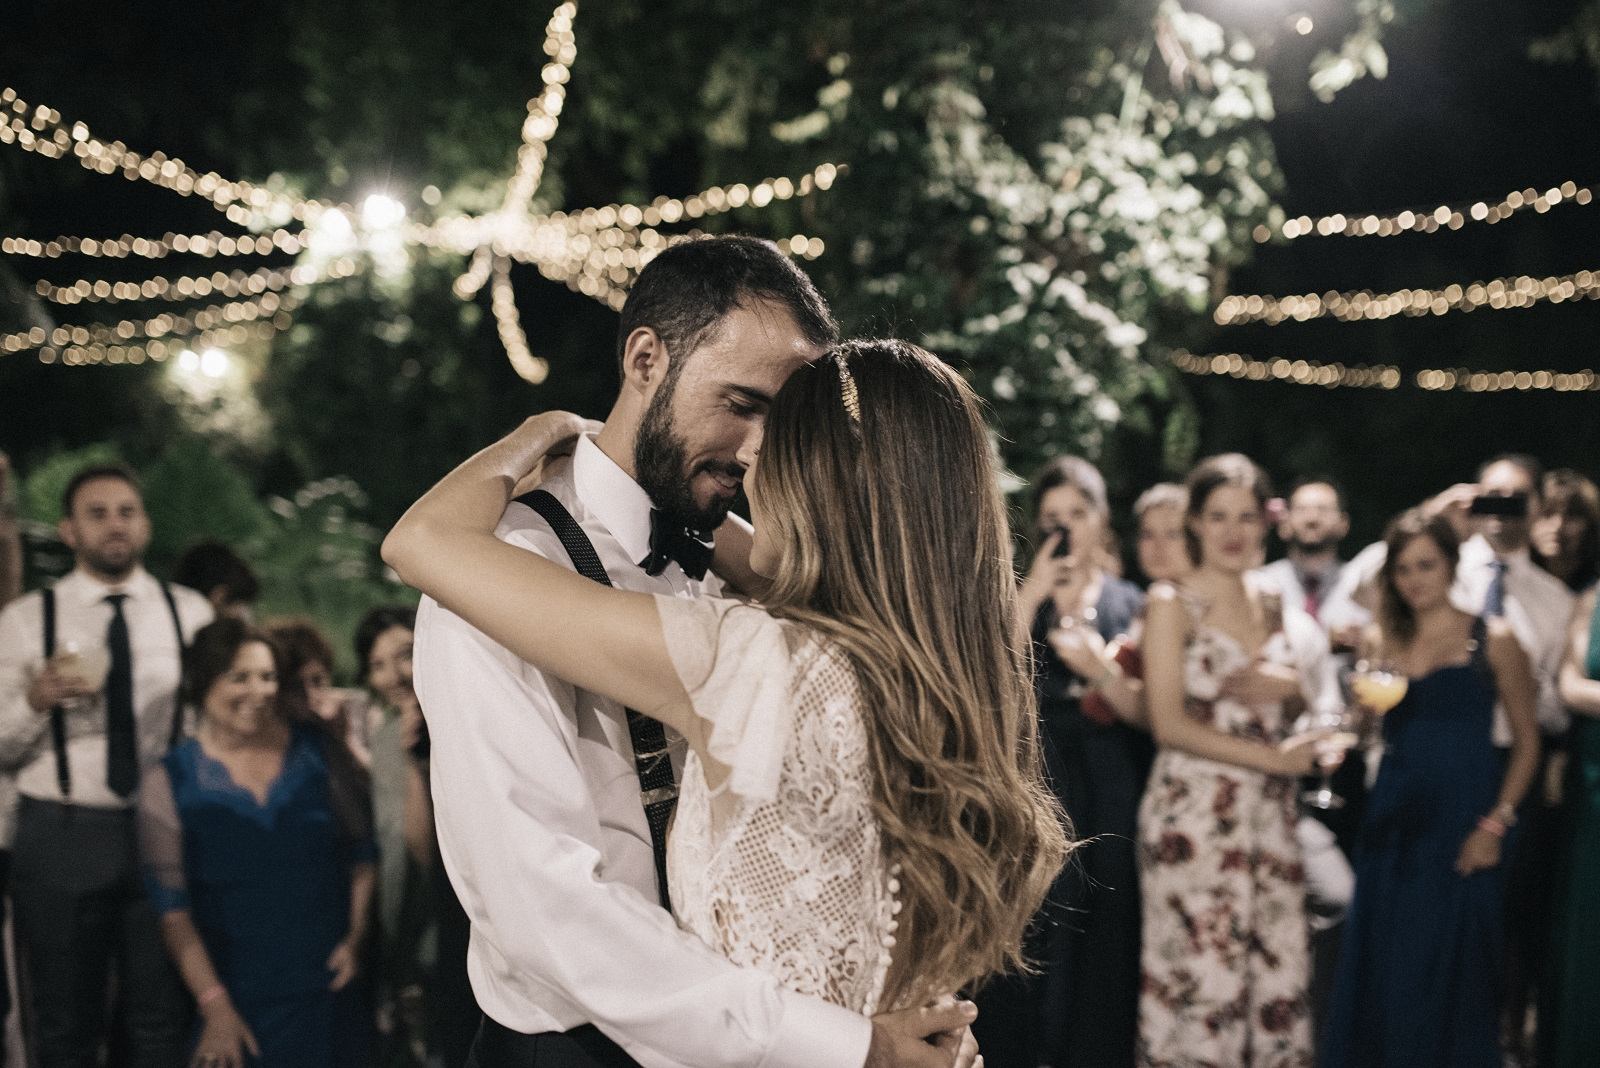
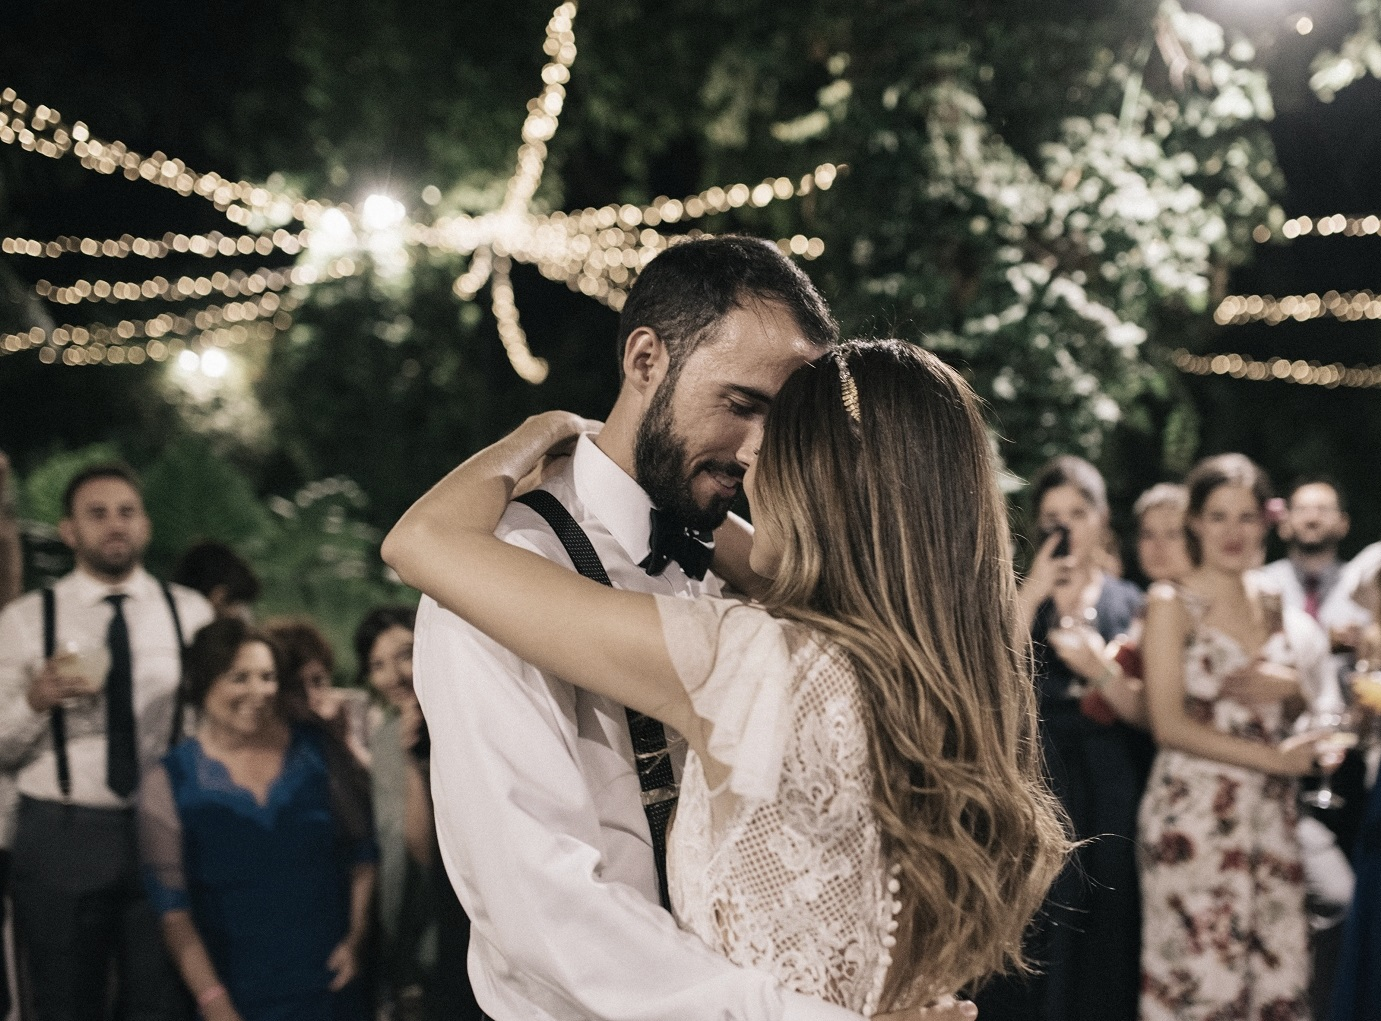
Cambio Pagina de Inicio

diff --git a/FrontEnd/src/components/paginaRegisLog/paginaRegisLog.css b/FrontEnd/src/components/paginaRegisLog/paginaRegisLog.css
@@ -7,10 +7,11 @@
   flex-wrap: nowrap;
   justify-content: flex-start;
   align-items: center;
-  background-color: #92b6d5 ;
+  background-color: #92b6d5cb ;
   margin-top: -50px;
   margin-bottom:-20px;
   border-radius: 20px;
+  opacity: 1;
   /* background-image: url('../../assets/img/fondo.png') */
 }
 
@@ -79,49 +80,7 @@
  
 }
 
-body {
-  /* display: flex;
-  width: 100vw;
-  height: 100vh;
-  align-items: center;
-  justify-content: center;
-  /* flex-direction: column;
-  flex-wrap: nowrap;
-  justify-content: center;
-  align-items: center;*/ 
-  /* background-color: #92b6d5;  */
-}
 
 h3{
   color:white;
 }
-/* 
-.animate	{ 
-	width: 100%; 
-	height: 400px; 
-	background-image: url('../../assets/img/nubes.png');
-	background-position: 100px 0px;
-	background-repeat: repeat-x;
-	animation: animatedBackground 40s linear infinite;
-} 
-
-
-
- @keyframes animatedBackground {
-  from { background-position: 100% 0; }
-  to { background-position: 0% 0; }
-} */
-
-/* 
-.animate{ 
-  width: 100%; 
-  height: 100px;
-  background-image: url('../../assets/img/nubes.png');
-  background-position: 100px 100px;
-  background-repeat: repeat-x;
-  animation: animatedBackground 40s linear infinite;
-  -ms-animation: animatedBackground 40s linear infinite;
-  -moz-animation: animatedBackground 40s linear infinite;
-  -webkit-animation: animatedBackground 40s linear infinite;
-} */
-

diff --git a/FrontEnd/src/components/paginaInicio/paginaInicio.css b/FrontEnd/src/components/paginaInicio/paginaInicio.css
@@ -2,9 +2,9 @@
     background-color: green;
 }
 
-.img{
-    
-} 
+.title{
+  
+}
 
 h2{
   color:gray;
@@ -22,7 +22,8 @@ h2{
     position: relative;
     height:900px ;
     background-size: cover;
-    background-image: url('../../assets/img/inicio.jpg');
+    filter: grayscale(40%);	
+    background-image: url('../../assets/img/portada4.jpg');
 }
 
 .bloque2{
@@ -44,8 +45,13 @@ h2{
     padding:0;
     position: relative;
     height:900px ;
+      filter: grayscale(40%);
     background-size: cover;
-    background-image: url('../../assets/img/boda2.jpg')
+    background-image: url('../../assets/img/baile.png')
+}
+
+.bloque4{
+  margin-top:-50px;
 }
 
 *{
@@ -147,13 +153,23 @@ h2{
 
 @media screen and (max-width: 600px) {
     .bloque1{
-        max-width:100%;
-       
-        background-image: url('../../assets/img/paginaInicio.jpg');
+      background-size:cover;
+      background-position:center;
+      background-repeat: no-repeat;
+      height: 600px;
     }
     
     .bloque2{
-    
+      background-size:cover;
+      background-position:center;
+      background-repeat: no-repeat;
+      height: 600px;
        
+    }
+    .bloque3{
+      background-size:cover;
+      background-position:center;
+      background-repeat: no-repeat;
+      height: 600px;
     }
   }

diff --git a/FrontEnd/src/components/paginaInicio/paginaInicio.component.jsx b/FrontEnd/src/components/paginaInicio/paginaInicio.component.jsx
@@ -4,7 +4,7 @@ import axios from 'axios';
 
 import { paginaInicio, paginaInicio2 } from '../../assets';
 import { FormularioConfirmacion } from '../formConfirmacion';
-import { NavbarInicio, Boda } from '@Components'
+import { NavbarInicio, Boda, Footer } from '@Components'
 import style2 from './paginaInicio.css';
 import { invitados, publicaciones, panelcontrol, mesas } from '../../assets';
 import { MDBBtn, MDBCard, MDBCardBody, MDBCardImage, MDBCardTitle, MDBCardText, MDBCol, MDBMask, MDBView } from 'mdbreact';
@@ -65,10 +65,18 @@ export class PaginaInicio extends Component {
                             </div>
                         </section>
                         <section className={style2.bloque3}>
+                        <p className={style2.title}>Crea tu boda</p>
                             <Boda />
+                           
                         </section>
+                        <section className={style2.bloque4}>
+                        <Footer/>
+                           
+                        </section>
+                       
                     </div>
                 </div>
+               
             </div >
         );
     }

diff --git a/FrontEnd/src/components/boda/boda.component.jsx b/FrontEnd/src/components/boda/boda.component.jsx
@@ -88,7 +88,7 @@ export class Boda extends Component {
                     <input className="form-control validate" id="email" type="email" name="Email" placeholder="Email" value={this.state.email} onChange={this.handleChange} />
                     <label form="password">Passsword:</label>
                     <input className="form-control" id="password" type="password" name="Password" placeholder="Password" value={this.state.password} onChange={this.handleChange} />
-                    <label form="apellido">Nombre Novi@ 2:</label>
+                    <label form="apellido">Nombre Novi@:</label>
                     <input className="form-control" id="novio2" type="text" name="novio2" placeholder="Nombre de un novi@" value={this.state.novio2} onChange={this.handleChange} />
                     <input type='button' onClick={() => {
                         this.crear();

diff --git a/FrontEnd/src/components/formulario/formulario.component.jsx b/FrontEnd/src/components/formulario/formulario.component.jsx
@@ -5,6 +5,7 @@ import { Switch, Redirect, BrowserRouter, } from 'react-router-dom';
 import { ResultadoInvitado } from '../resultadoInvitado/resultadoInvitado.component'
 import styles from '../../routes/router/router.styles.css';
 import stylesform from './formulario.styles.css';
+import { style } from 'react-toastify';
 // Import global resources
 
 // Import local resources
@@ -74,7 +75,7 @@ export class Formulario extends Component {
     const redireccion = this.state.redirect ? <Redirect from="/" to="/FormularioConfirmacion" /> : null
     const redireccion2 = this.state.redirect2 ? <Redirect from="/" to="/gestionInvitados" /> : null
     return (
-      <div>
+      <div className={stylesform.container}>
         <h5>Registro de Invitado</h5>
         <form >
           <label >ID Boda:</label>

diff --git a/FrontEnd/src/components/paginaRegisLog/paginaRegisLog.component.jsx b/FrontEnd/src/components/paginaRegisLog/paginaRegisLog.component.jsx
@@ -28,7 +28,7 @@ export class PaginaResgisLog extends Component {
             <div className={Styles.container}>
                 <img src={cloud} className={Styles.image} />
                 <div className={Styles.title}>Wedding Cloud</div>
-                <div className="row">
+               
                     {this.state.logIn ?
 
                         <div className="col-l6 mx-5">
@@ -40,8 +40,7 @@ export class PaginaResgisLog extends Component {
                         <a onClick={this.change}>Registrarse</a>
                     </div>}
 
-                 
-                </div>
+               
             </div>
         )
     }

diff --git a/FrontEnd/src/components/footer/footer.component.jsx b/FrontEnd/src/components/footer/footer.component.jsx
@@ -1,0 +1,17 @@
+import React, { Component } from 'react';
+import { MDBCol, MDBContainer, MDBRow, MDBFooter } from "mdbreact";
+
+export class Footer extends Component {
+    render() {
+        return (
+            <MDBFooter color="grey" className="font-small pt-4 mt-4">
+                <div className="footer-copyright text-center py-3">
+                    <MDBContainer fluid>
+                        &copy; {new Date().getFullYear()} Copyright: <a href="https://www.myweddingcloud.com"> www.Weddingcloud.com </a>
+                    </MDBContainer>
+                </div>
+            </MDBFooter>
+        );
+    }
+}
+

diff --git a/FrontEnd/src/components/navbarInicio/navbarInicio.css b/FrontEnd/src/components/navbarInicio/navbarInicio.css
@@ -3,7 +3,6 @@
 }
 
 .navbar{
-    background: linear-gradient(to bottom, #808c94, rgb(102, 119, 111));
-    /* background-color: #688197; */
+    background:rgb(54, 78, 94);
     color:black;
 }

diff --git a/FrontEnd/src/components/index.js b/FrontEnd/src/components/index.js
@@ -16,3 +16,4 @@ export * from './paginaRegisLog';
 export * from './navbarInicio';
 export * from './logOut';
 export * from './boda';
+export * from './footer';

diff --git a/FrontEnd/src/components/boda/boda.css b/FrontEnd/src/components/boda/boda.css
@@ -5,6 +5,7 @@ label{
     h5{
         color:white;
         text-align: center;
+        font-size:30px;
     }
     
     input{

diff --git a/FrontEnd/src/components/formulario/formulario.styles.css b/FrontEnd/src/components/formulario/formulario.styles.css
@@ -10,3 +10,7 @@ h5{
 input{
     background-color: aliceblue;
 }
+
+.container{
+    opacity: 1;
+}

diff --git a/FrontEnd/src/components/footer/index.js b/FrontEnd/src/components/footer/index.js
@@ -1,0 +1,1 @@
+export * from './footer.component';
